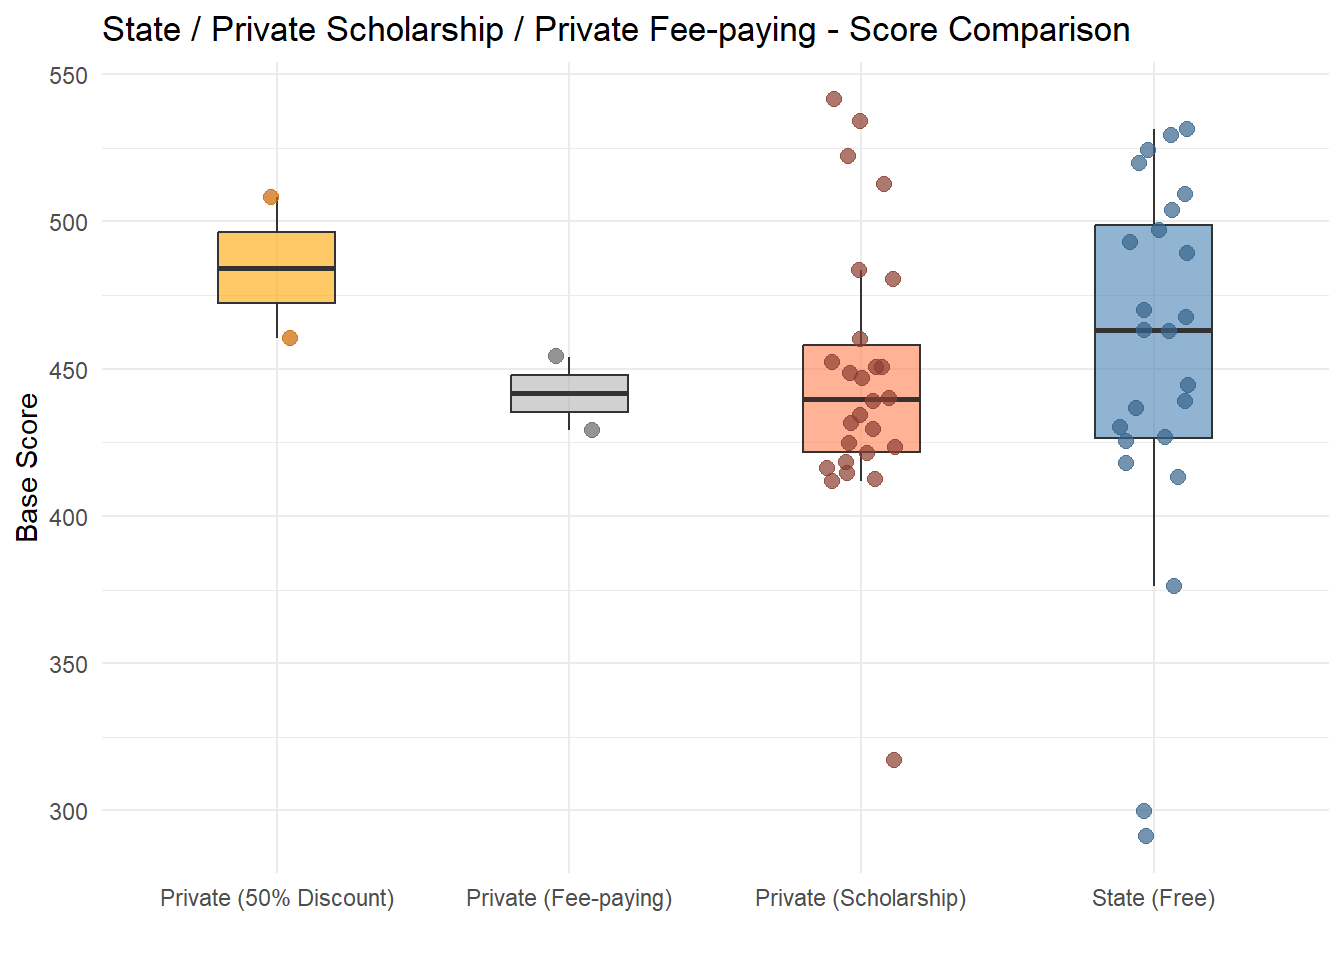
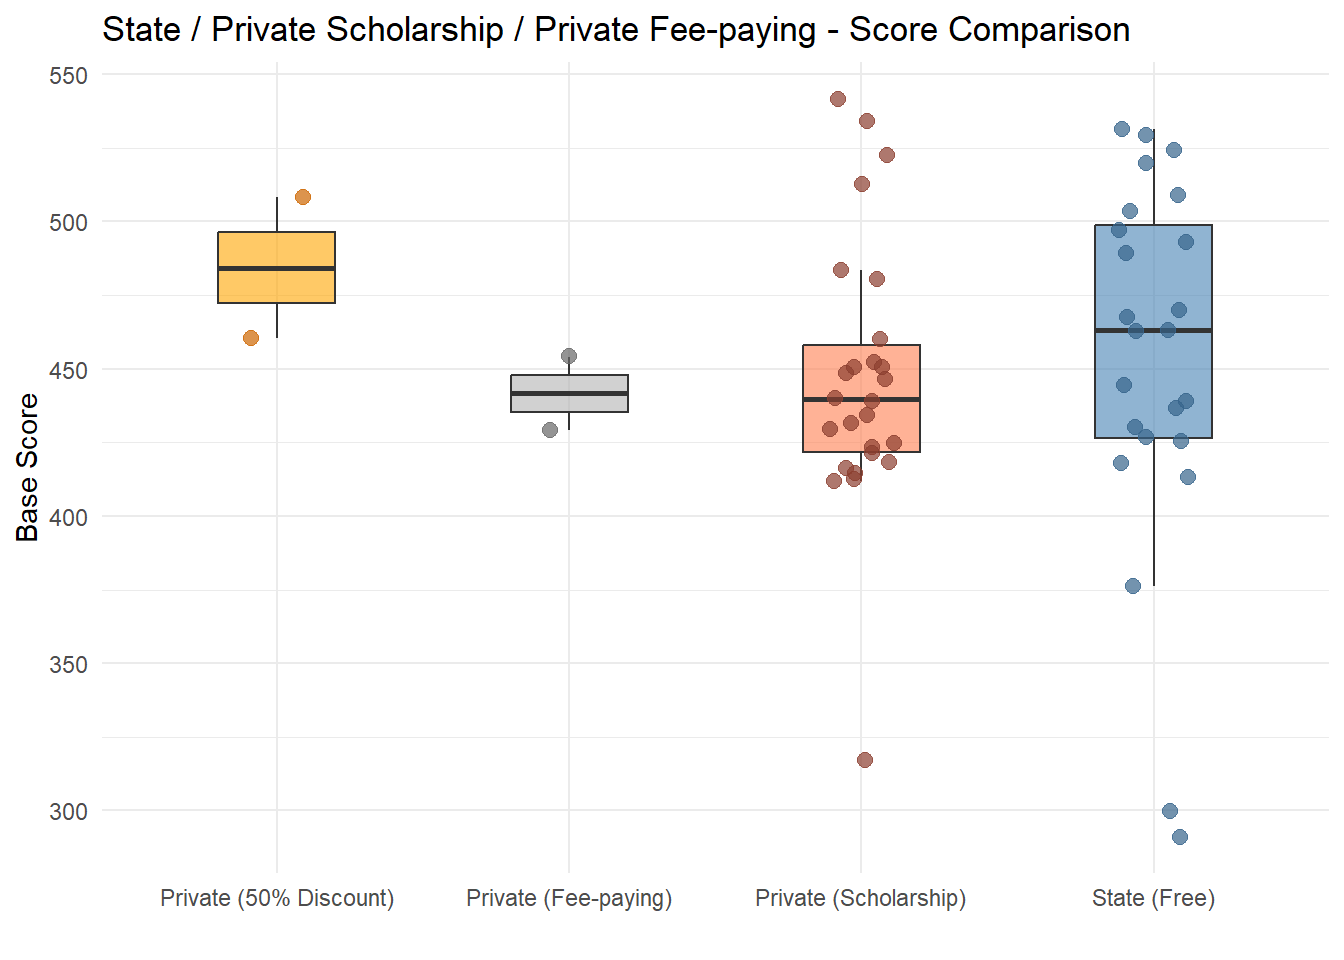
projectv3

diff --git a/docs/project.html b/docs/project.html
@@ -841,10 +841,10 @@ pre > code.sourceCode > span > a:first-child::before { text-decoration: underlin
 <span id="cb6-2"><a href="#cb6-2" aria-hidden="true" tabindex="-1"></a></span>
 <span id="cb6-3"><a href="#cb6-3" aria-hidden="true" tabindex="-1"></a>df_muh_temiz <span class="ot">&lt;-</span> df_temiz <span class="sc">%&gt;%</span></span>
 <span id="cb6-4"><a href="#cb6-4" aria-hidden="true" tabindex="-1"></a>  <span class="fu">mutate</span>(<span class="at">grup =</span> <span class="fu">case_when</span>(</span>
-<span id="cb6-5"><a href="#cb6-5" aria-hidden="true" tabindex="-1"></a>    ucret_burs <span class="sc">==</span> <span class="st">"Ücretsiz"</span>      <span class="sc">~</span> <span class="st">"State (Free)"</span>,</span>
-<span id="cb6-6"><a href="#cb6-6" aria-hidden="true" tabindex="-1"></a>    ucret_burs <span class="sc">==</span> <span class="st">"Burslu"</span>        <span class="sc">~</span> <span class="st">"Private (Scholarship)"</span>,</span>
-<span id="cb6-7"><a href="#cb6-7" aria-hidden="true" tabindex="-1"></a>    ucret_burs <span class="sc">==</span> <span class="st">"%50 İndirimli"</span> <span class="sc">~</span> <span class="st">"Private (50% Discount)"</span>,</span>
-<span id="cb6-8"><a href="#cb6-8" aria-hidden="true" tabindex="-1"></a>    ucret_burs <span class="sc">==</span> <span class="st">"Ücretli"</span>       <span class="sc">~</span> <span class="st">"Private (Fee-paying)"</span></span>
+<span id="cb6-5"><a href="#cb6-5" aria-hidden="true" tabindex="-1"></a>    <span class="fu">str_detect</span>(ucret_burs, <span class="st">"cretsiz"</span>)                                    <span class="sc">~</span> <span class="st">"State (Free)"</span>,</span>
+<span id="cb6-6"><a href="#cb6-6" aria-hidden="true" tabindex="-1"></a>    <span class="fu">str_detect</span>(ucret_burs, <span class="st">"Burslu"</span>)                                     <span class="sc">~</span> <span class="st">"Private (Scholarship)"</span>,</span>
+<span id="cb6-7"><a href="#cb6-7" aria-hidden="true" tabindex="-1"></a>    <span class="fu">str_detect</span>(ucret_burs, <span class="st">"ndirimli"</span>)                                   <span class="sc">~</span> <span class="st">"Private (50% Discount)"</span>,</span>
+<span id="cb6-8"><a href="#cb6-8" aria-hidden="true" tabindex="-1"></a>    <span class="fu">str_detect</span>(ucret_burs, <span class="st">"cretli"</span>) <span class="sc">&amp;</span> <span class="sc">!</span><span class="fu">str_detect</span>(ucret_burs, <span class="st">"cretsiz"</span>) <span class="sc">~</span> <span class="st">"Private (Fee-paying)"</span></span>
 <span id="cb6-9"><a href="#cb6-9" aria-hidden="true" tabindex="-1"></a>  ))</span>
 <span id="cb6-10"><a href="#cb6-10" aria-hidden="true" tabindex="-1"></a></span>
 <span id="cb6-11"><a href="#cb6-11" aria-hidden="true" tabindex="-1"></a>bolum_ozet <span class="ot">&lt;-</span> df_muh_temiz <span class="sc">%&gt;%</span></span>
@@ -907,10 +907,10 @@ pre > code.sourceCode > span > a:first-child::before { text-decoration: underlin
 <span id="cb7-6"><a href="#cb7-6" aria-hidden="true" tabindex="-1"></a>  <span class="fu">filter</span>(<span class="fu">grepl</span>(<span class="st">"^End"</span>, bolum),</span>
 <span id="cb7-7"><a href="#cb7-7" aria-hidden="true" tabindex="-1"></a>         <span class="sc">!</span><span class="fu">grepl</span>(<span class="st">"netim"</span>, bolum)) <span class="sc">%&gt;%</span></span>
 <span id="cb7-8"><a href="#cb7-8" aria-hidden="true" tabindex="-1"></a>  <span class="fu">mutate</span>(<span class="at">grup =</span> <span class="fu">case_when</span>(</span>
-<span id="cb7-9"><a href="#cb7-9" aria-hidden="true" tabindex="-1"></a>    ucret_burs <span class="sc">==</span> <span class="st">"Ücretsiz"</span>      <span class="sc">~</span> <span class="st">"State (Free)"</span>,</span>
-<span id="cb7-10"><a href="#cb7-10" aria-hidden="true" tabindex="-1"></a>    ucret_burs <span class="sc">==</span> <span class="st">"Burslu"</span>        <span class="sc">~</span> <span class="st">"Private (Scholarship)"</span>,</span>
-<span id="cb7-11"><a href="#cb7-11" aria-hidden="true" tabindex="-1"></a>    ucret_burs <span class="sc">==</span> <span class="st">"%50 İndirimli"</span> <span class="sc">~</span> <span class="st">"Private (50% Discount)"</span>,</span>
-<span id="cb7-12"><a href="#cb7-12" aria-hidden="true" tabindex="-1"></a>    ucret_burs <span class="sc">==</span> <span class="st">"Ücretli"</span>       <span class="sc">~</span> <span class="st">"Private (Fee-paying)"</span></span>
+<span id="cb7-9"><a href="#cb7-9" aria-hidden="true" tabindex="-1"></a>    <span class="fu">str_detect</span>(ucret_burs, <span class="st">"cretsiz"</span>)                                    <span class="sc">~</span> <span class="st">"State (Free)"</span>,</span>
+<span id="cb7-10"><a href="#cb7-10" aria-hidden="true" tabindex="-1"></a>    <span class="fu">str_detect</span>(ucret_burs, <span class="st">"Burslu"</span>)                                     <span class="sc">~</span> <span class="st">"Private (Scholarship)"</span>,</span>
+<span id="cb7-11"><a href="#cb7-11" aria-hidden="true" tabindex="-1"></a>    <span class="fu">str_detect</span>(ucret_burs, <span class="st">"ndirimli"</span>)                                   <span class="sc">~</span> <span class="st">"Private (50% Discount)"</span>,</span>
+<span id="cb7-12"><a href="#cb7-12" aria-hidden="true" tabindex="-1"></a>    <span class="fu">str_detect</span>(ucret_burs, <span class="st">"cretli"</span>) <span class="sc">&amp;</span> <span class="sc">!</span><span class="fu">str_detect</span>(ucret_burs, <span class="st">"cretsiz"</span>) <span class="sc">~</span> <span class="st">"Private (Fee-paying)"</span></span>
 <span id="cb7-13"><a href="#cb7-13" aria-hidden="true" tabindex="-1"></a>  ))</span>
 <span id="cb7-14"><a href="#cb7-14" aria-hidden="true" tabindex="-1"></a></span>
 <span id="cb7-15"><a href="#cb7-15" aria-hidden="true" tabindex="-1"></a>df_endustri_temiz <span class="sc">%&gt;%</span></span>
@@ -1103,10 +1103,10 @@ pre > code.sourceCode > span > a:first-child::before { text-decoration: underlin
 <span id="cb10-11"><a href="#cb10-11" aria-hidden="true" tabindex="-1"></a>})) <span class="sc">%&gt;%</span></span>
 <span id="cb10-12"><a href="#cb10-12" aria-hidden="true" tabindex="-1"></a>  <span class="fu">filter</span>(<span class="sc">!</span><span class="fu">is.na</span>(taban_puan), taban_puan <span class="sc">&gt;</span> <span class="dv">0</span>) <span class="sc">%&gt;%</span></span>
 <span id="cb10-13"><a href="#cb10-13" aria-hidden="true" tabindex="-1"></a>  <span class="fu">mutate</span>(<span class="at">grup =</span> <span class="fu">case_when</span>(</span>
-<span id="cb10-14"><a href="#cb10-14" aria-hidden="true" tabindex="-1"></a>    ucret_burs <span class="sc">==</span> <span class="st">"Ücretsiz"</span>      <span class="sc">~</span> <span class="st">"State (Free)"</span>,</span>
-<span id="cb10-15"><a href="#cb10-15" aria-hidden="true" tabindex="-1"></a>    ucret_burs <span class="sc">==</span> <span class="st">"Burslu"</span>        <span class="sc">~</span> <span class="st">"Private (Scholarship)"</span>,</span>
-<span id="cb10-16"><a href="#cb10-16" aria-hidden="true" tabindex="-1"></a>    ucret_burs <span class="sc">==</span> <span class="st">"%50 İndirimli"</span> <span class="sc">~</span> <span class="st">"Private (50% Discount)"</span>,</span>
-<span id="cb10-17"><a href="#cb10-17" aria-hidden="true" tabindex="-1"></a>    ucret_burs <span class="sc">==</span> <span class="st">"Ücretli"</span>       <span class="sc">~</span> <span class="st">"Private (Fee-paying)"</span></span>
+<span id="cb10-14"><a href="#cb10-14" aria-hidden="true" tabindex="-1"></a>    <span class="fu">str_detect</span>(ucret_burs, <span class="st">"cretsiz"</span>)                                    <span class="sc">~</span> <span class="st">"State (Free)"</span>,</span>
+<span id="cb10-15"><a href="#cb10-15" aria-hidden="true" tabindex="-1"></a>    <span class="fu">str_detect</span>(ucret_burs, <span class="st">"Burslu"</span>)                                     <span class="sc">~</span> <span class="st">"Private (Scholarship)"</span>,</span>
+<span id="cb10-16"><a href="#cb10-16" aria-hidden="true" tabindex="-1"></a>    <span class="fu">str_detect</span>(ucret_burs, <span class="st">"ndirimli"</span>)                                   <span class="sc">~</span> <span class="st">"Private (50% Discount)"</span>,</span>
+<span id="cb10-17"><a href="#cb10-17" aria-hidden="true" tabindex="-1"></a>    <span class="fu">str_detect</span>(ucret_burs, <span class="st">"cretli"</span>) <span class="sc">&amp;</span> <span class="sc">!</span><span class="fu">str_detect</span>(ucret_burs, <span class="st">"cretsiz"</span>) <span class="sc">~</span> <span class="st">"Private (Fee-paying)"</span></span>
 <span id="cb10-18"><a href="#cb10-18" aria-hidden="true" tabindex="-1"></a>  ))</span>
 <span id="cb10-19"><a href="#cb10-19" aria-hidden="true" tabindex="-1"></a></span>
 <span id="cb10-20"><a href="#cb10-20" aria-hidden="true" tabindex="-1"></a>trend_df_endustri <span class="sc">%&gt;%</span></span>
@@ -1125,7 +1125,7 @@ pre > code.sourceCode > span > a:first-child::before { text-decoration: underlin
 <span id="cb10-33"><a href="#cb10-33" aria-hidden="true" tabindex="-1"></a>  )) <span class="sc">+</span></span>
 <span id="cb10-34"><a href="#cb10-34" aria-hidden="true" tabindex="-1"></a>  <span class="fu">theme_minimal</span>() <span class="sc">+</span></span>
 <span id="cb10-35"><a href="#cb10-35" aria-hidden="true" tabindex="-1"></a>  <span class="fu">theme</span>(<span class="at">legend.position =</span> <span class="st">"bottom"</span>) <span class="sc">+</span></span>
-<span id="cb10-36"><a href="#cb10-36" aria-hidden="true" tabindex="-1"></a>  <span class="fu">labs</span>(<span class="at">title =</span> <span class="st">"Annual Average Score Trend by University Type - Industrial Engineering"</span>,</span>
+<span id="cb10-36"><a href="#cb10-36" aria-hidden="true" tabindex="-1"></a>  <span class="fu">labs</span>(<span class="at">title =</span> <span class="st">"Annual Average Score Trend by University Type - All Engineering"</span>,</span>
 <span id="cb10-37"><a href="#cb10-37" aria-hidden="true" tabindex="-1"></a>       <span class="at">x =</span> <span class="st">"Year"</span>, <span class="at">y =</span> <span class="st">"Average Base Score"</span>, <span class="at">color =</span> <span class="st">""</span>)</span></code></pre></div><button title="Copy to Clipboard" class="code-copy-button"><i class="bi"></i></button></div>
 </details>
 <div class="cell-output-display">
@@ -1142,7 +1142,7 @@ pre > code.sourceCode > span > a:first-child::before { text-decoration: underlin
 <i class="callout-icon no-icon"></i>
 </div>
 <div class="callout-body-container">
-<p>State universities consistently show the highest average scores across all years. All three groups show an upward trend over time, indicating growing demand for engineering programs.</p>
+<p>Private scholarship programs consistently show the highest average scores, though with notable year-to-year fluctuation. State universities maintain a stable upward trend, while fee-paying and discounted private programs cluster at the lower end with similar score profiles. The 2024 dip across all categories likely reflects a system-wide shift in exam scoring or quota changes.</p>
 </div>
 </div>
 </div>
@@ -1853,7 +1853,7 @@ pre > code.sourceCode > span > a:first-child::before { text-decoration: underlin
 <span id="cb23-6"><a href="#cb23-6" aria-hidden="true" tabindex="-1"></a>top12_uni_puan <span class="ot">&lt;-</span> df_muh_temiz <span class="sc">%&gt;%</span></span>
 <span id="cb23-7"><a href="#cb23-7" aria-hidden="true" tabindex="-1"></a>  <span class="fu">filter</span>(<span class="sc">!</span><span class="fu">is.na</span>(taban_puan), taban_puan <span class="sc">&gt;</span> <span class="dv">0</span>,</span>
 <span id="cb23-8"><a href="#cb23-8" aria-hidden="true" tabindex="-1"></a>         <span class="fu">grepl</span>(<span class="st">"hendisli"</span>, bolum),</span>
-<span id="cb23-9"><a href="#cb23-9" aria-hidden="true" tabindex="-1"></a>         ucret_burs <span class="sc">!=</span> <span class="st">"Ücretli"</span></span>
+<span id="cb23-9"><a href="#cb23-9" aria-hidden="true" tabindex="-1"></a>         <span class="sc">!</span><span class="fu">str_detect</span>(ucret_burs, <span class="st">"cretli"</span>) <span class="sc">|</span> <span class="fu">str_detect</span>(ucret_burs, <span class="st">"cretsiz"</span>)</span>
 <span id="cb23-10"><a href="#cb23-10" aria-hidden="true" tabindex="-1"></a>  ) <span class="sc">%&gt;%</span></span>
 <span id="cb23-11"><a href="#cb23-11" aria-hidden="true" tabindex="-1"></a>  <span class="fu">group_by</span>(universite, uni_turu) <span class="sc">%&gt;%</span></span>
 <span id="cb23-12"><a href="#cb23-12" aria-hidden="true" tabindex="-1"></a>  <span class="fu">summarise</span>(</span>
@@ -1922,7 +1922,7 @@ pre > code.sourceCode > span > a:first-child::before { text-decoration: underlin
 <span id="cb24-4"><a href="#cb24-4" aria-hidden="true" tabindex="-1"></a></span>
 <span id="cb24-5"><a href="#cb24-5" aria-hidden="true" tabindex="-1"></a>common_depts <span class="ot">&lt;-</span> df_muh_temiz <span class="sc">%&gt;%</span></span>
 <span id="cb24-6"><a href="#cb24-6" aria-hidden="true" tabindex="-1"></a>  <span class="fu">filter</span>(universite <span class="sc">%in%</span> top12_uni_puan<span class="sc">$</span>universite,</span>
-<span id="cb24-7"><a href="#cb24-7" aria-hidden="true" tabindex="-1"></a>         ucret_burs <span class="sc">==</span> <span class="st">"Ücretsiz"</span>) <span class="sc">%&gt;%</span></span>
+<span id="cb24-7"><a href="#cb24-7" aria-hidden="true" tabindex="-1"></a>         <span class="fu">str_detect</span>(ucret_burs, <span class="st">"cretsiz"</span>)) <span class="sc">%&gt;%</span></span>
 <span id="cb24-8"><a href="#cb24-8" aria-hidden="true" tabindex="-1"></a>  <span class="fu">group_by</span>(bolum) <span class="sc">%&gt;%</span></span>
 <span id="cb24-9"><a href="#cb24-9" aria-hidden="true" tabindex="-1"></a>  <span class="fu">summarise</span>(<span class="at">n_uni =</span> <span class="fu">n_distinct</span>(universite), <span class="at">.groups =</span> <span class="st">"drop"</span>) <span class="sc">%&gt;%</span></span>
 <span id="cb24-10"><a href="#cb24-10" aria-hidden="true" tabindex="-1"></a>  <span class="fu">filter</span>(n_uni <span class="sc">&gt;=</span> <span class="dv">2</span>) <span class="sc">%&gt;%</span></span>
@@ -1994,7 +1994,7 @@ pre > code.sourceCode > span > a:first-child::before { text-decoration: underlin
 <span id="cb25-4"><a href="#cb25-4" aria-hidden="true" tabindex="-1"></a></span>
 <span id="cb25-5"><a href="#cb25-5" aria-hidden="true" tabindex="-1"></a>top3_df <span class="ot">&lt;-</span> df_muh_temiz <span class="sc">%&gt;%</span></span>
 <span id="cb25-6"><a href="#cb25-6" aria-hidden="true" tabindex="-1"></a>  <span class="fu">filter</span>(universite <span class="sc">%in%</span> top12_uni_puan<span class="sc">$</span>universite,</span>
-<span id="cb25-7"><a href="#cb25-7" aria-hidden="true" tabindex="-1"></a>         ucret_burs <span class="sc">==</span> <span class="st">"Ücretsiz"</span>) <span class="sc">%&gt;%</span></span>
+<span id="cb25-7"><a href="#cb25-7" aria-hidden="true" tabindex="-1"></a>         <span class="fu">str_detect</span>(ucret_burs, <span class="st">"cretsiz"</span>)) <span class="sc">%&gt;%</span></span>
 <span id="cb25-8"><a href="#cb25-8" aria-hidden="true" tabindex="-1"></a>  <span class="fu">group_by</span>(universite, bolum) <span class="sc">%&gt;%</span></span>
 <span id="cb25-9"><a href="#cb25-9" aria-hidden="true" tabindex="-1"></a>  <span class="fu">summarise</span>(<span class="at">avg_score =</span> <span class="fu">mean</span>(taban_puan, <span class="at">na.rm =</span> <span class="cn">TRUE</span>), <span class="at">.groups =</span> <span class="st">"drop"</span>) <span class="sc">%&gt;%</span></span>
 <span id="cb25-10"><a href="#cb25-10" aria-hidden="true" tabindex="-1"></a>  <span class="fu">group_by</span>(universite) <span class="sc">%&gt;%</span></span>
